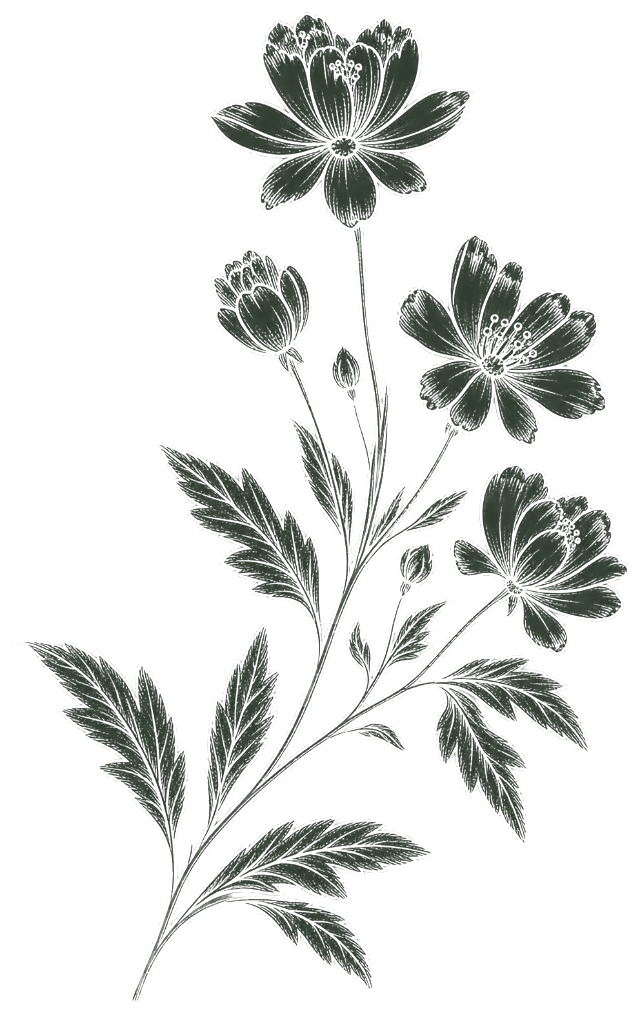
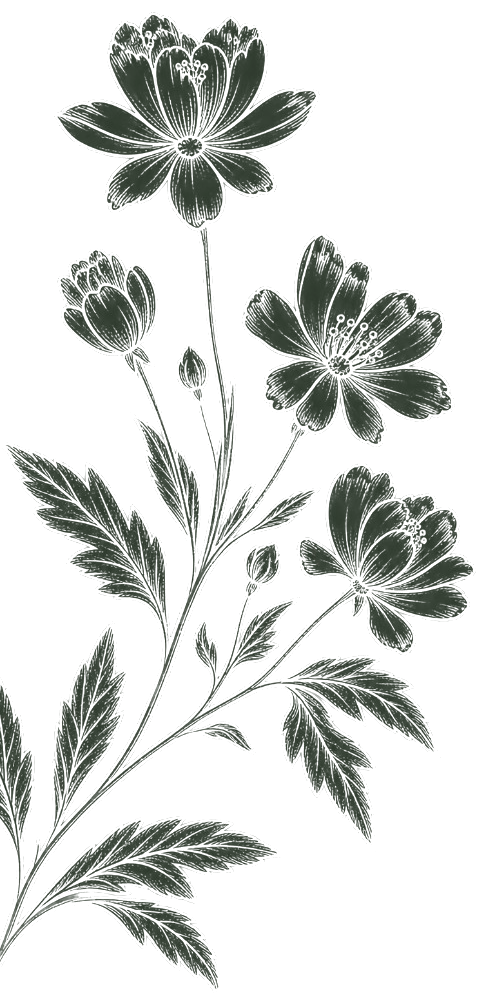
Justera Guider-hemsektion: layout, kortstil och ny flora.
Rubrik/lede i full bredd, Alla guider till höger, samma guide-kort som undersidan, ny webp-flora med color-burn och 20 % opacitet.

diff --git a/src/styles/main.css b/src/styles/main.css
@@ -375,39 +375,38 @@
     max-width:var(--max);margin:0 auto;padding:0 28px;
   }
   .guides-flora{
-    position:absolute;left:clamp(-40px,-2vw,0);top:8%;bottom:6%;
-    width:min(280px,28vw);pointer-events:none;z-index:0;
-    opacity:.9;
+    position:absolute;left:0;top:4%;bottom:4%;
+    width:min(320px,30vw);pointer-events:none;z-index:0;
+    opacity:.2;
   }
   .guides-flora img{
     width:100%;height:100%;object-fit:contain;object-position:left center;
     mix-blend-mode:color-burn;
-    filter:contrast(1.05);
   }
-  .guides-home-head{margin-bottom:22px;max-width:46rem}
+  .guides-home-head{
+    display:flex;align-items:flex-start;justify-content:space-between;gap:24px;
+    margin-bottom:22px;
+  }
+  .guides-home-copy{flex:1;min-width:0}
   .guides-home-eyebrow{
     display:inline-flex;align-items:center;gap:8px;
     font-size:11px;font-weight:700;letter-spacing:.16em;text-transform:uppercase;
     color:var(--rust);margin-bottom:14px;
   }
   .guides-home-eyebrow svg{flex-shrink:0}
-  .guides-home-title-row{
-    display:flex;align-items:baseline;justify-content:space-between;gap:20px;
-    margin-bottom:12px;
-  }
-  .guides-home-title-row h2{
+  .guides-home-copy h2{
     font-family:var(--font-serif);font-size:clamp(28px,3.4vw,42px);
-    font-weight:500;color:var(--moss-deep);letter-spacing:-.015em;line-height:1.12;
-    margin:0;max-width:16ch;
+    font-weight:500;color:var(--moss-deep);letter-spacing:-.015em;line-height:1.15;
+    margin:0 0 12px;
   }
   .guides-home-all{
-    flex-shrink:0;font-size:14px;font-weight:600;color:var(--rust);
+    flex-shrink:0;margin-top:2px;font-size:14px;font-weight:600;color:var(--rust);
     background:none;border:none;padding:0;cursor:pointer;white-space:nowrap;
   }
   .guides-home-all:hover{color:var(--rust-deep)}
   .guides-home-all:focus-visible{outline:2px solid var(--rust);outline-offset:3px;border-radius:4px}
   .guides-home-lede{
-    font-size:16px;line-height:1.55;color:var(--ink-soft);margin:0;max-width:36em;
+    font-size:16px;line-height:1.55;color:var(--ink-soft);margin:0;
   }
   .guides-home-filters{
     display:flex;flex-wrap:wrap;gap:10px;margin:0 0 28px;
@@ -426,61 +425,14 @@
   }
   .guides-home-chip:focus-visible{outline:2px solid var(--rust);outline-offset:2px}
   .guides-home-row{
-    display:grid;grid-template-columns:repeat(3,1fr);gap:22px;
+    display:grid;grid-template-columns:repeat(3,1fr);gap:18px;
   }
   .guides-home-empty{
     grid-column:1/-1;padding:28px 8px;color:var(--ink-soft);font-size:15px;
   }
-  .guide-home-card{
-    display:flex;flex-direction:column;text-align:left;
-    border:none;border-radius:18px;overflow:hidden;background:transparent;
-    cursor:pointer;padding:0;font:inherit;color:inherit;width:100%;
-    transition:transform .18s;
-  }
-  .guide-home-card:hover{transform:translateY(-3px)}
-  .guide-home-card:focus-visible{outline:2px solid var(--rust);outline-offset:3px}
-  .guide-home-card .im{
-    position:relative;aspect-ratio:4/3;border-radius:16px;overflow:hidden;
-    background-color:var(--paper-2);
-  }
-  .guide-home-card .im-bg{
-    position:absolute;inset:0;background-size:cover;background-position:center;
-    transition:transform .45s;
-  }
-  .guide-home-card:hover .im-bg{transform:scale(1.04)}
-  .guide-home-card .stops-pill{
-    position:absolute;z-index:1;top:12px;left:12px;
-    padding:6px 10px;border-radius:999px;
-    background:rgba(251,248,242,.94);color:var(--moss-deep);
-    font-size:11px;font-weight:700;letter-spacing:.06em;text-transform:uppercase;
-    box-shadow:0 1px 2px rgba(47,61,46,.08);
-  }
-  .guide-home-card .bd{
-    padding:16px 4px 4px;display:flex;flex-direction:column;flex:1;position:relative;
-  }
-  .guide-home-card .tag{
-    font-size:11px;font-weight:700;letter-spacing:.12em;text-transform:uppercase;
-    color:var(--rust);margin-bottom:8px;
-  }
-  .guide-home-card h3{
-    font-family:var(--font-serif);font-size:clamp(22px,2.1vw,26px);
-    font-weight:500;color:var(--moss-deep);line-height:1.2;margin:0 0 10px;
-    padding-right:36px;
-  }
-  .guide-home-card p{
-    font-size:14px;line-height:1.55;color:var(--ink-soft);margin:0 0 8px;
+  /* Home teaser reuses .guide-card from Guider-sidan */
+  .guides-home-row .guide-card p{
     display:-webkit-box;-webkit-line-clamp:3;-webkit-box-orient:vertical;overflow:hidden;
-    flex:1;padding-right:8px;
-  }
-  .guide-home-card .arrow{
-    position:absolute;right:0;bottom:2px;
-    width:36px;height:36px;border-radius:50%;
-    border:1px solid var(--line);background:var(--card);
-    display:grid;place-items:center;color:var(--moss-deep);
-    transition:background .15s,border-color .15s,color .15s;
-  }
-  .guide-home-card:hover .arrow{
-    background:var(--moss-deep);border-color:var(--moss-deep);color:#fff;
   }
 
   /* Händer — featured + list */
@@ -1642,8 +1594,8 @@
     .guides-flora{display:none}
     .guides-sec{padding:40px 0 28px;margin-top:12px}
     .guides-sec-inner{padding:0 18px}
-    .guides-home-title-row{flex-direction:column;align-items:flex-start;gap:10px}
-    .guides-home-title-row h2{max-width:none}
+    .guides-home-head{flex-direction:column;align-items:stretch;gap:10px}
+    .guides-home-all{align-self:flex-end}
     .guides-home-filters{
       flex-wrap:nowrap;overflow-x:auto;-webkit-overflow-scrolling:touch;
       scrollbar-width:none;margin-right:-18px;padding-right:18px;
@@ -1656,7 +1608,7 @@
     .voice-feature{grid-template-columns:1fr}
     .voice-feature .vf-img{min-height:220px}
     .guides-home-row{grid-template-columns:1fr 1fr}
-    .guides-flora{width:min(200px,22vw);opacity:.7}
+    .guides-flora{width:min(220px,24vw)}
     .score-row,.fav-grid,.route-grid,.cat-grid,.list-grid,.wx-share,.picks-row,.happen-more{grid-template-columns:1fr}
     .journey{grid-template-columns:1fr;gap:12px}
     .journey-arrow{display:none}

diff --git a/index.html b/index.html
@@ -328,19 +328,19 @@
   <!-- Guider — redaktionella dagsrundor med temafilter -->
   <section class="sec guides-sec" id="guidesHomeSec" hidden aria-labelledby="guidesHomeTitle">
     <div class="guides-flora" aria-hidden="true">
-      <img src="/assets/shared/guides-flora.webp" alt="" width="640" height="1012" decoding="async" loading="lazy" />
+      <img src="/assets/shared/guides-flora.webp" alt="" width="486" height="1002" decoding="async" loading="lazy" />
     </div>
     <div class="guides-sec-inner">
       <header class="guides-home-head">
-        <div class="guides-home-eyebrow">
-          <svg width="16" height="16" viewBox="0 0 24 24" fill="none" aria-hidden="true"><path d="M4 5.5C4 4.67 4.67 4 5.5 4H11v14.5H5.5A1.5 1.5 0 0 1 4 17V5.5zM20 5.5c0-.83-.67-1.5-1.5-1.5H13v14.5h5.5a1.5 1.5 0 0 0 1.5-1.5V5.5z" stroke="currentColor" stroke-width="1.6"/><path d="M13 4v14.5" stroke="currentColor" stroke-width="1.6"/></svg>
-          Guider
-        </div>
-        <div class="guides-home-title-row">
+        <div class="guides-home-copy">
+          <div class="guides-home-eyebrow">
+            <svg width="16" height="16" viewBox="0 0 24 24" fill="none" aria-hidden="true"><path d="M4 5.5C4 4.67 4.67 4 5.5 4H11v14.5H5.5A1.5 1.5 0 0 1 4 17V5.5zM20 5.5c0-.83-.67-1.5-1.5-1.5H13v14.5h5.5a1.5 1.5 0 0 0 1.5-1.5V5.5z" stroke="currentColor" stroke-width="1.6"/><path d="M13 4v14.5" stroke="currentColor" stroke-width="1.6"/></svg>
+            Guider
+          </div>
           <h2 id="guidesHomeTitle">Färdiga guider för alla slags dagar</h2>
-          <button type="button" class="guides-home-all" onclick="showView('guider')">Alla guider →</button>
+          <p class="guides-home-lede">Berättade stopp, lokala tips och smultronställen – vi har gjort jobbet, du njuter.</p>
         </div>
-        <p class="guides-home-lede">Berättade stopp, lokala tips och smultronställen – vi har gjort jobbet, du njuter.</p>
+        <button type="button" class="guides-home-all" onclick="showView('guider')">Alla guider →</button>
       </header>
       <div class="guides-home-filters" id="guidesHomeFilters" role="tablist" aria-label="Filtrera guider"></div>
       <div class="guides-home-row" id="guidesHomeTeaser"></div>

diff --git a/e2e/guides-home.spec.js b/e2e/guides-home.spec.js
@@ -6,21 +6,21 @@ test.describe("Guides home section", () => {
     await page.goto("/");
     const sec = page.locator("#guidesHomeSec");
     await expect(sec).toBeVisible();
-    await expect(sec.locator("#guidesHomeTitle")).toContainText("Färdiga guider");
+    await expect(sec.locator("#guidesHomeTitle")).toContainText("Färdiga guider för alla slags dagar");
     await expect(sec.locator(".guides-flora img")).toBeVisible();
+    await expect(sec.locator(".guides-home-all")).toBeVisible();
     await expect(sec.locator(".guides-home-chip")).toHaveCount(6);
     await expect(sec.locator(".guides-home-chip.on")).toContainText("Populära");
-    await expect(sec.locator(".guide-home-card")).toHaveCount(3);
-    await expect(sec.locator(".stops-pill").first()).toBeVisible();
-    await expect(sec.locator(".guide-home-card .tag").first()).toBeVisible();
+    await expect(sec.locator("#guidesHomeTeaser .guide-card")).toHaveCount(3);
+    await expect(sec.locator("#guidesHomeTeaser .guide-card .lnk").first()).toContainText("Läs guiden");
     await expect(sec.getByText("bilvänlig")).toHaveCount(0);
-    await expect(sec.locator(".guide-home-card .arrow").first()).toBeVisible();
+    await expect(sec.locator(".arrow")).toHaveCount(0);
   });
 
   test("theme filter updates cards", async ({ page }) => {
     await page.goto("/");
     await page.locator("#guidesHomeFilters").getByRole("tab", { name: "Med barn" }).click();
     await expect(page.locator("#guidesHomeFilters .guides-home-chip.on")).toContainText("Med barn");
-    await expect(page.locator("#guidesHomeTeaser .guide-home-card").first()).toContainText("barn");
+    await expect(page.locator("#guidesHomeTeaser .guide-card").first()).toContainText("barn");
   });
 });

diff --git a/src/js/app.js b/src/js/app.js
@@ -2887,20 +2887,14 @@ import {
     }
     wrap.innerHTML=ordered.map(g=>{
       const img=g.heroImg || guideResolvedStops(g)[0]?.placeObj?.img || "";
-      const n=g.stops.length;
       const kicker=g.kicker || seasonLabel(g.season);
-      return `<button type="button" class="guide-home-card" onclick="openGuide('${g.slug}')">
-        <div class="im" aria-hidden="true">
-          <div class="im-bg" style="background-image:url('${escHtml(img)}')"></div>
-          <span class="stops-pill">${n} stopp</span>
-        </div>
+      return `<button type="button" class="guide-card" onclick="openGuide('${g.slug}')">
+        <div class="im" style="background-image:url('${escHtml(img)}')"></div>
         <div class="bd">
           <div class="tag">${escHtml(kicker)}</div>
           <h3>${escHtml(g.title)}</h3>
           <p>${escHtml(g.intro)}</p>
-          <span class="arrow" aria-hidden="true">
-            <svg width="16" height="16" viewBox="0 0 24 24" fill="none"><path d="M5 12h14M13 6l6 6-6 6" stroke="currentColor" stroke-width="1.8" stroke-linecap="round" stroke-linejoin="round"/></svg>
-          </span>
+          <span class="lnk">Läs guiden →</span>
         </div>
       </button>`;
     }).join("");

diff --git a/e2e/back-history.spec.js b/e2e/back-history.spec.js
@@ -93,7 +93,7 @@ test("in-app ← from place→place returns to category in one tap", async ({ pa
 test("browser back from guide card returns to start", async ({ page }) => {
   await page.goto("/");
   await expect(page.locator("#guidesHomeSec")).toBeVisible();
-  await page.locator("#guidesHomeTeaser .guide-home-card").first().click();
+  await page.locator("#guidesHomeTeaser .guide-card").first().click();
   await expect(page.locator("#view-guide")).toHaveClass(/on/);
   await page.goBack();
   await expect(page.locator("#view-guide")).not.toHaveClass(/on/);
